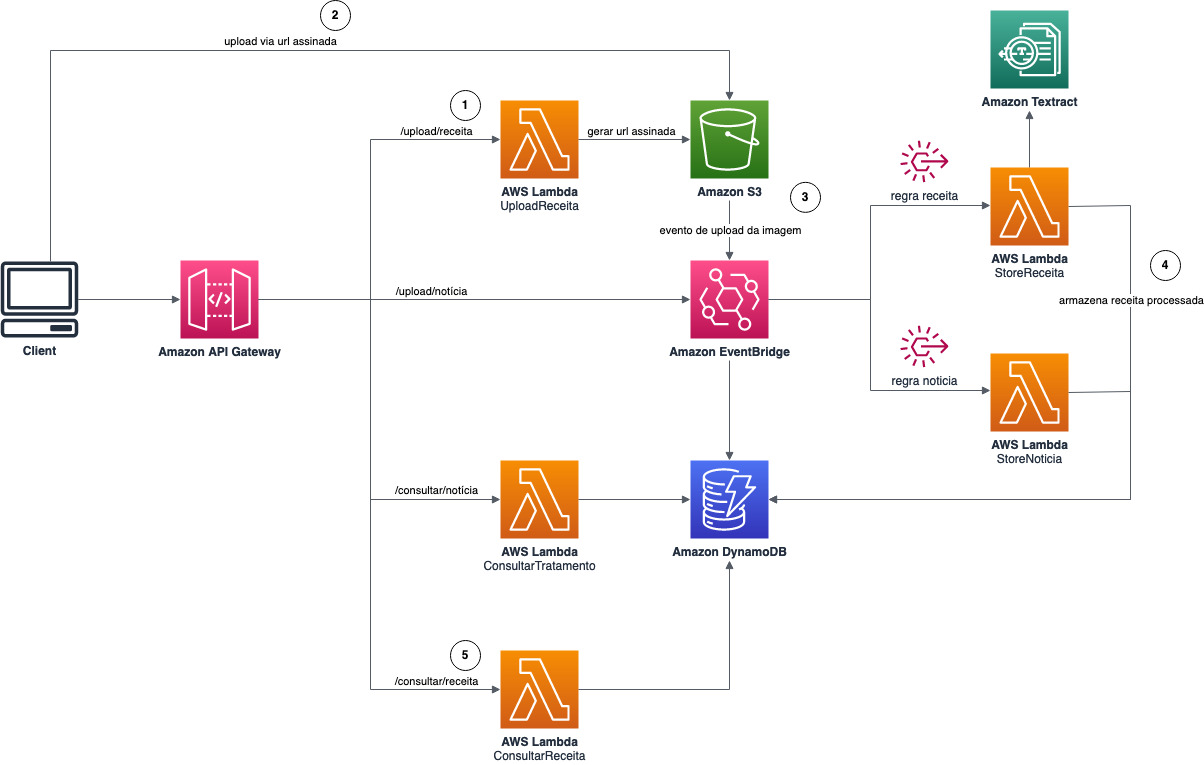
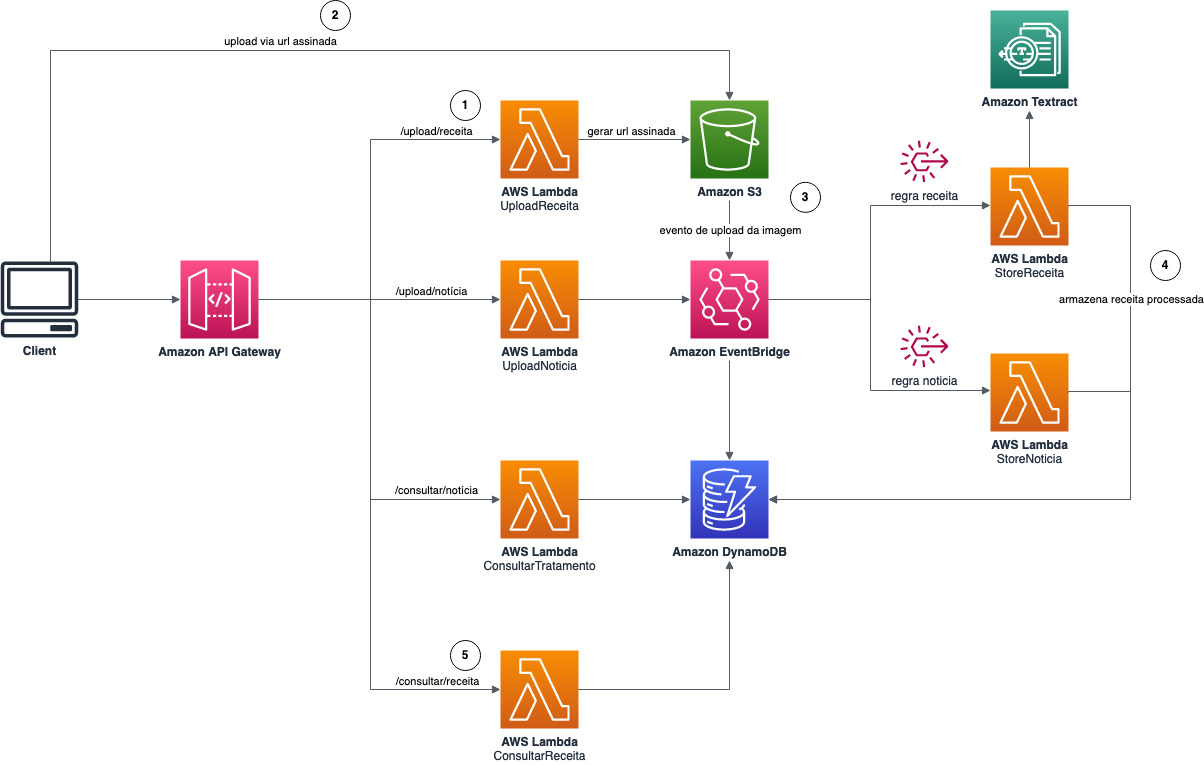
feat(Started microservices) Started noticias and receitas

Changed region(s): [[0.3995, 0.3307, 0.4917, 0.481], [0.8912, 0.3908, 1.0, 0.4209], [0.338, 0.8719, 0.3995, 0.902]]

diff --git a/src/noticia/app.py b/src/noticia/app.py
@@ -1,30 +1,39 @@
-import os
 import json
-import boto3
-
-aws_environment = os.environ['AWSENV']
-table_name = os.environ['TABLE']
-
-# Check if executing locally or on AWS, and configure DynamoDB connection accordingly
-if aws_environment == "AWS_SAM_LOCAL":
-    # SAM LOCAL
-    contents_table = boto3.resource(
-        'dynamodb',
-        endpoint_url="http://127.0.0.1:8000").Table(table_name)
-else:
-    # AWS
-    contents_table = boto3.resource(
-        'dynamodb').Table(table_name)
-
-s3_client = boto3.client("s3")
+from noticia import Noticia
 
 
 def lambda_handler(event, context):
+    print(event)
+
+    noticia = Noticia()
+
+    if 'path' in event:
+        if event['path'] == '/consultar/noticia':
+            body = {
+                "content": noticia.consultar_noticia()
+            }
+
+        elif event['path'] == '/listar/noticias':
+            body = noticia.listar_noticias()
+
+        elif event['path'] == '/upload/noticia':
+            event_body = json.loads(event['body'])
+            noticia.content = event_body['content']
+            noticia.upload_noticia()
+
+            body = {
+                "content": noticia.id
+            }
+    else:
+        noticia.id = event['id']
+        noticia.content = event['detail']['content']
+        noticia.store_noticia()
+
+        body = {
+            "content": "eventbrige event"
+        }
+
     return {
         "statusCode": 200,
-        "body": json.dumps({
-            "message": "noticia",
-            "env": f"{aws_environment}",
-            "connection": f"{contents_table}"
-        }),
+        "body": json.dumps(body),
     }

diff --git a/src/noticia/noticia.py b/src/noticia/noticia.py
@@ -1,0 +1,60 @@
+import os
+from datetime import datetime
+import uuid
+import boto3
+import json
+
+aws_environment = os.environ['AWSENV']
+table_name = os.environ['TABLE']
+
+# Check if executing locally or on AWS, and configure DynamoDB connection accordingly
+if aws_environment == "AWS_SAM_LOCAL":
+    # SAM LOCAL
+    contents_table = boto3.resource(
+        'dynamodb',
+        endpoint_url="http://127.0.0.1:8000").Table(table_name)
+else:
+    # AWS
+    contents_table = boto3.resource(
+        'dynamodb').Table(table_name)
+
+events_client = boto3.client("events")
+
+
+class Noticia:
+    def __init__(self, id=None):
+        self.id = id if id else str(uuid.uuid4())
+        self.content = ""
+        self.date = datetime.today().strftime('%Y-%m-%d')
+
+    def upload_noticia(self):
+        events_client.put_events(
+            Entries=[
+                {
+                    'Source': 'contents.noticia',
+                    'DetailType': 'Nova noticia',
+                    'Detail': json.dumps({
+                        "state": "created",
+                        "id": self.id,
+                        "content": self.content
+                    })
+                }
+            ]
+        )
+        return "upload"
+
+    def consultar_noticia(self):
+        return "consultar"
+
+    def listar_noticias(self):
+        response = contents_table.scan()
+
+        return response['Items']
+
+    def store_noticia(self):
+        contents_table.put_item(
+            Item={
+                'Id': self.id,
+                'Content': self.content
+            }
+        )
